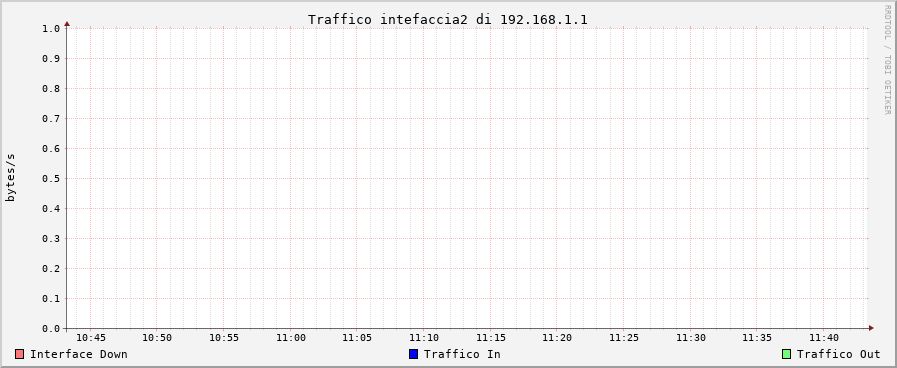
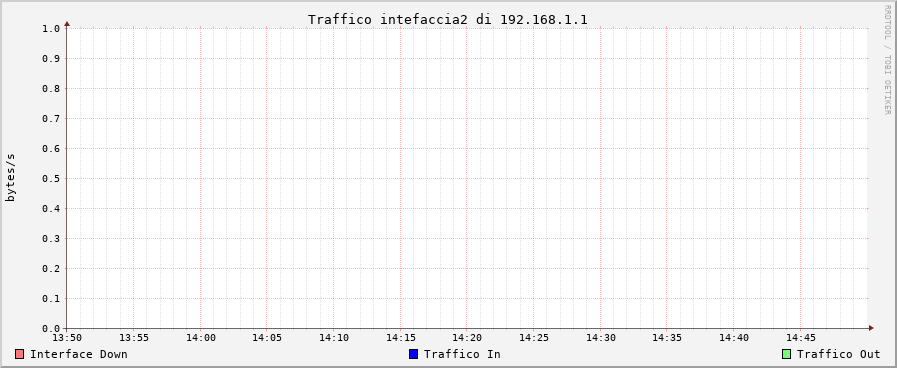
the end

Changed region(s): [[0.0624, 0.8967, 0.9365, 0.9266]]

diff --git a/snmp-monitor/src/snmp_monitor/rdd_module/rdd_traps.py b/snmp-monitor/src/snmp_monitor/rdd_module/rdd_traps.py
@@ -1,0 +1,37 @@
+import os
+import csv
+import datetime
+
+def load_traps(csv_path: str) -> list:
+    traps = []
+    if not os.path.exists(csv_path):
+        return traps
+    with open(csv_path, "r") as f:
+        reader = csv.DictReader(f)
+        for row in reader:
+            traps.append(row)
+    return traps
+
+def get_vrules(traps: list, agent_ip: str) -> list:
+    # Colori associati a ogni tipo di trap
+    colors = {
+        "linkDown": "#FF0000", # rosso — interfaccia giù
+        "linkUp": "#00FF00",   # verde — interfaccia tornata su
+        "coldStart": "#FFA500",# arancione — riavvio freddo
+        "warmStart": "#FFA500",# arancione — riavvio caldo
+        "authenticationFailure": "#FFFF00",  # giallo — errore autenticazione
+    }
+    vrules = []
+    for trap in traps:
+        # Considero solo le trap che provengono dall'agente che sto graficando
+        if trap["source_ip"] == agent_ip:
+            # Prendo il colore associato al tipo di trap
+            # Se il tipo non è nella mappa uso bianco come default
+            color = colors.get(trap["trap_type"], "#FFFFFF")
+            # datetime.fromisoformat() lo converte in oggetto datetime
+            # .timestamp() lo trasforma in Unix timestamp
+            ts = int(datetime.datetime.fromisoformat(trap["timestamp"]).timestamp())
+            # Costruisco la stringa VRULE nel formato richiesto da rrdtool:
+            # VRULE:timestamp#colore:etichetta
+            vrules.append(f"VRULE:{ts}{color}:{trap['trap_type']}")
+    return vrules

diff --git a/snmp-monitor/src/snmp_monitor/main.py b/snmp-monitor/src/snmp_monitor/main.py
@@ -9,6 +9,8 @@ from snmp_monitor.csv_writer import write_csv
 from snmp_monitor.models import TrapEvent
 from snmp_monitor.poller import poll_all_agents
 from snmp_monitor.trap_reciever import (avvia_in_background, trap_richiede_polling)
+from snmp_monitor.rdd_module.rdd_manager import run_manager
+from snmp_monitor.rdd_module.rdd_grapher import generate_all_graph
  
 logger = logging.getLogger(__name__)
 
@@ -95,6 +97,8 @@ def signal_handlers(stop_event: asyncio.Event) -> None:
     # Viene eseguita quando arriverà un segnale
     def _handle_signal() -> None:
         logger.info("Segnale di stop ricevuto, chiusura in corso...")
+        run_manager() #legge metrics.csv
+        generate_all_graph()#genera il grafo
         stop_event.set() # stop_event diventa True e termina il ciclo a riga 20
     
     # SIGINT è il segnale che invio da riga di comando
@@ -263,7 +267,7 @@ def main() -> None:
     parser = argparse.ArgumentParser(description="SNMP Poller")
     parser.add_argument(
         # Specifica gli Agents
-        "--config", default="agents.yaml",
+        "--config", default="agents.yml",
         help="Percorso del file YAML di configurazione degli agenti",
     )
     parser.add_argument(

diff --git a/snmp-monitor/src/snmp_monitor/rdd_module/rdd_grapher.py b/snmp-monitor/src/snmp_monitor/rdd_module/rdd_grapher.py
@@ -1,5 +1,6 @@
 import os
 import rrdtool
+from snmp_monitor.rdd_module.rdd_traps import load_traps,get_vrules
 from snmp_monitor.rdd_module.rdd_manager import parse_rrd_filename
 
 def graph_traffic(path:str) :
@@ -15,6 +16,8 @@ def graph_traffic(path:str) :
     print(f"DEF: DEF:traffic_in:{rrd_path_abs}:if_octets_in:AVERAGE")
 
     ip,inf = parse_rrd_filename(path)
+
+    vrules=get_vrules(load_traps("traps.csv"),ip)
 
     # Genero il grafico con un intervallo di 1 ora e una linea più leggibile
     # così i punti non spariscono se i campioni arrivano con un po' di ritardo
@@ -34,8 +37,11 @@ def graph_traffic(path:str) :
         "AREA:is_down#FF000080:Interface Down",
         "LINE1:traffic_in#0000FF:Traffico In", 
         "AREA:traffic_out#00FF0080:Traffico Out",
+        *vrules
     )
 
+
+#controlla che esista la dr e recupera i file rrd da trasformare in grafi
 def generate_all_graph() :
         
     os.makedirs("rrd_graphs", exist_ok=True) 

diff --git a/snmp-monitor/src/snmp_monitor/rdd_module/rdd_manager.py b/snmp-monitor/src/snmp_monitor/rdd_module/rdd_manager.py
@@ -86,8 +86,8 @@ def process_row(row:dict):
         create_rrd(path, start_time=timestamp - 120, overwrite=True)
         update_rrd(path,row)
 
-
-if __name__ == "__main__":
+#funzione da far partire alla chiusura del programma, recupera e riodiordina le metriche da far leggere al grapher 
+def run_manager() :
     with open("metrics.csv", "r") as f:
         reader = csv.DictReader(f)
         rows = sorted(reader, key=lambda r: int(r["timestamp"]))